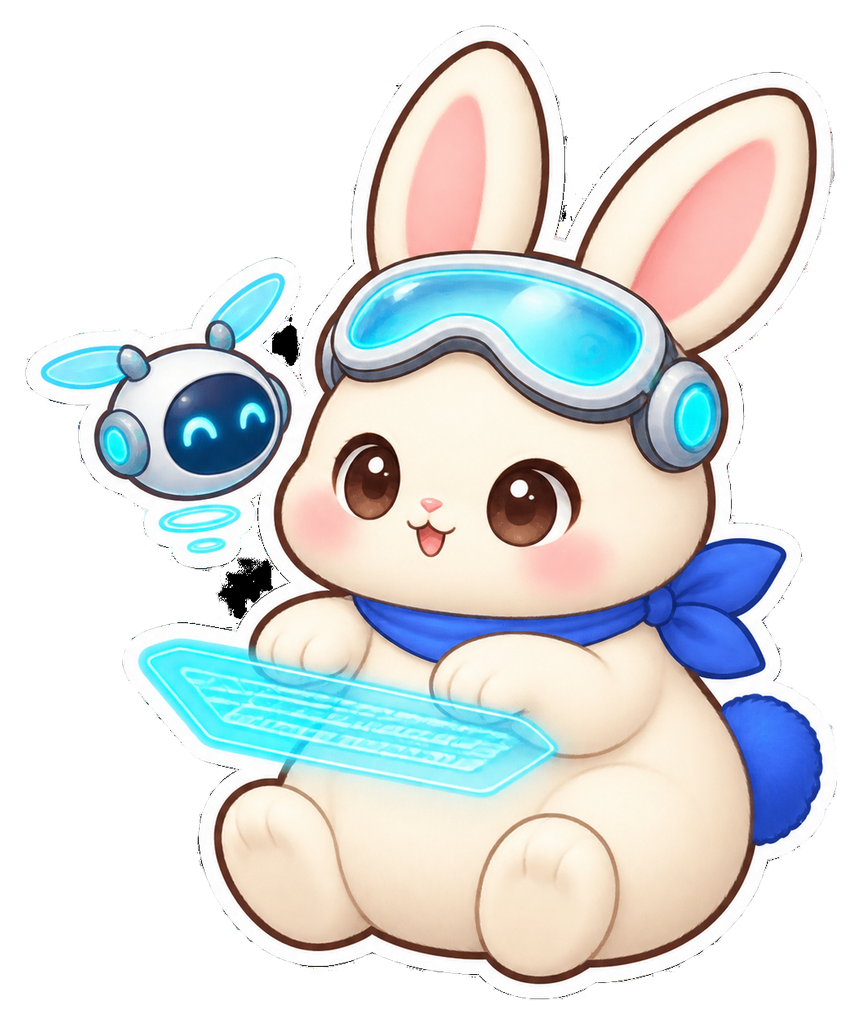
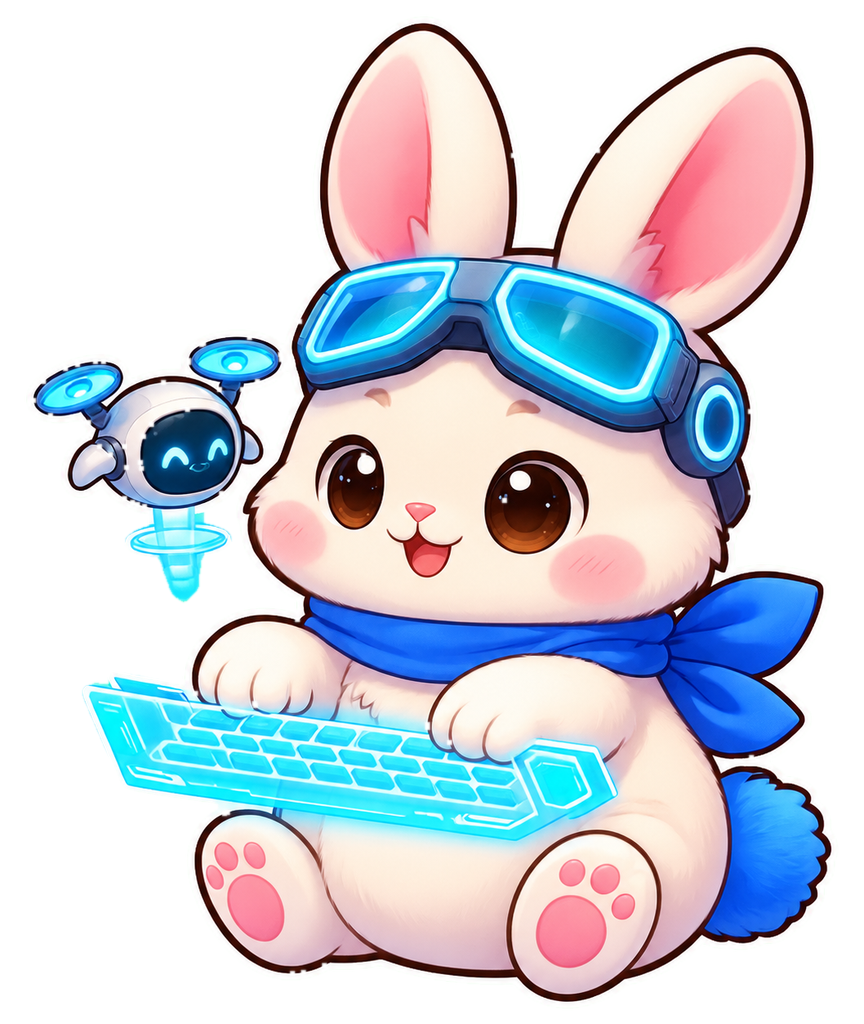
assets(brand): 吉祥物四姿态重生成根治黑底毛边，补换 APK 启动图标与官网 SVG 素材

diff --git a/assets/brand/tools/postprocess.py b/assets/brand/tools/postprocess.py
@@ -33,16 +33,26 @@ def key_bg(im: Image.Image) -> Image.Image:
         b_ok = Image.eval(bb, lambda p: 255 if p < 170 else 0)
         m = ImageChops_mul(greenish, r_ok, b_ok)
     elif r < 70 and g < 70 and b < 70:
-        # black card: flood-fill the dark region reachable from the border
-        # (the white die-cut border keeps the fill out of the character)
-        dark = ((arr[..., 0] < 80) & (arr[..., 1] < 80)
-                & (arr[..., 2] < 80)).astype(np.uint8) * 255
+        # black card: flood-fill the dark region reachable from the border.
+        # The threshold must swallow the whole bg->sticker blend ring (lum
+        # up to ~160) — that ring is exactly what shows as a dark fringe on
+        # light backgrounds.  The white die-cut border keeps the fill out
+        # of the character; deep erosion then shaves whatever ring pixels
+        # survived above the threshold.
+        lum = (arr[..., 0] * 0.3 + arr[..., 1] * 0.6 + arr[..., 2] * 0.1)
+        dark = (lum < 160).astype(np.uint8) * 255
         m = Image.fromarray(dark, "L")
         pad = Image.new("L", (m.width + 2, m.height + 2), 255)
         pad.paste(m, (1, 1))
         ImageDraw.floodfill(pad, (0, 0), 128, thresh=0)
         m = pad.crop((1, 1, m.width + 1, m.height + 1)).point(
             lambda p: 255 if p == 128 else 0)
+        alpha = m.point(lambda p: 0 if p == 255 else 255)
+        alpha = alpha.filter(ImageFilter.MinFilter(5)).filter(
+            ImageFilter.MinFilter(5))
+        out = im.convert("RGBA")
+        out.putalpha(alpha)
+        return drop_specks(out)
     else:
         print(f"  unknown backdrop median rgb=({r:.0f},{g:.0f},{b:.0f}) — SKIP",
               flush=True)
@@ -109,6 +119,10 @@ def crop_margin(im: Image.Image, pad: int) -> Image.Image:
 # ---- mascots: transparent PNG, cropped to silhouette ----
 for name in ["hero", "run", "sleep", "cheer", "code", "battle"]:
     src = RAW / f"{name}.png"
+    if not src.exists():
+        print(f"{name}: no raw master — keeping committed zanzi-{name}.png",
+              flush=True)
+        continue
     im = key_bg(Image.open(src))
     n = sum(1 for p in im.getchannel("A").getdata() if p == 0)
     if n < im.width * im.height * 0.2:

diff --git a/assets/brand/tools/prompts.md b/assets/brand/tools/prompts.md
@@ -69,10 +69,18 @@ shadow.
 
 ## 踩坑记录
 
+- **API 会随机无视绿幕指令返纯黑卡**（一批六张里四张黑）。重生成时把绿幕
+  要求提到 prompt 最前并用硬性措辞（PROFESSIONAL CHROMA-KEY GREEN SCREEN /
+  Absolutely NO black background…），四张全部返绿。抠底脚本保留黑卡泛洪
+  路径兜底：阈值必须盖住 bg→贴纸的过渡环（亮度到 ~160），否则白边外留
+  一圈黑毛边（实测踩过：黑毛边在浅底上一眼可见，用户直接打回）。
 - 输出永远是**不透明 RGB**：透明底靠绿幕 + PIL 色度抠底（`postprocess.py`
-  的 `key_green`），阈值 `g>150 且 r<170 且 b<170` + 两轮 MinFilter 腐蚀去
+  的 `key_bg`），绿幕路径 `g>150 且 r<170 且 b<170` + 两轮 MinFilter 腐蚀去
   绿边。贴纸白边 + 深棕描边把角色包了一圈，绿幕才敢用全图色度判断而不
   是只清边缘。
+- 生成图绿底上会落**白色噪点斑块**（辉光渗出），色度键看不见——
+  `drop_specks` 按连通域面积清（<600px 的孤岛连同羽化晕一起删；无人机、
+  速度拖尾这类大件保留）。
 - 首版 prompt 写 `flat vector / flat cel shading`，生成结果太扁没肉感
   （用户反馈「没肉感、立体一点圆润一点」）——改成 `plump pear-shaped body,
   plush-toy softness, soft volumetric shading, everything round and squishy`

diff --git a/assets/brand/VI.md b/assets/brand/VI.md
@@ -172,11 +172,11 @@ PIL 降采样，透明底）：`logo/png/` 下 `zan-mark-16/32/48/64/128/256/512
 
 **② 由 AI 生成原图加工**（`tools/postprocess.py`：绿幕/黑卡自适应抠底 +
 连通域去噪点 + 切尺寸）：`mascot/` 下 `zanzi-hero` 691×1024、`zanzi-run`
-960×965、`zanzi-sleep` 919×910、`zanzi-cheer` 794×1024、`zanzi-code`
-862×1024、`zanzi-battle` 813×1024、`zanzi-avatar` 512×512、
+904×918、`zanzi-sleep` 851×828、`zanzi-cheer` 814×1024、`zanzi-code`
+864×1024、`zanzi-battle` 813×1024、`zanzi-avatar` 512×512、
 `zanzi-avatar-round` 512×512。原型为 gpt-image-2 的 1024×1024 原图
-（绿幕或黑卡底由生成批次决定，抠底自动识别），prompt 权威存档在
-`tools/prompts.md`；脚本幂等。
+（背景颜色由生成批次决定：绿幕或黑卡，抠底自动识别；黑卡底已用
+硬性绿幕措辞重生成规避），prompt 权威存档在 `tools/prompts.md`；脚本幂等。
 
 **③ 脚本合成**（`tools/compose.py`，需 PIL）：`banner/zan-banner.png`
 1500×500（GitHub 横幅）、`banner/zan-palette.png` 1600×1180（色板总览卡）。
